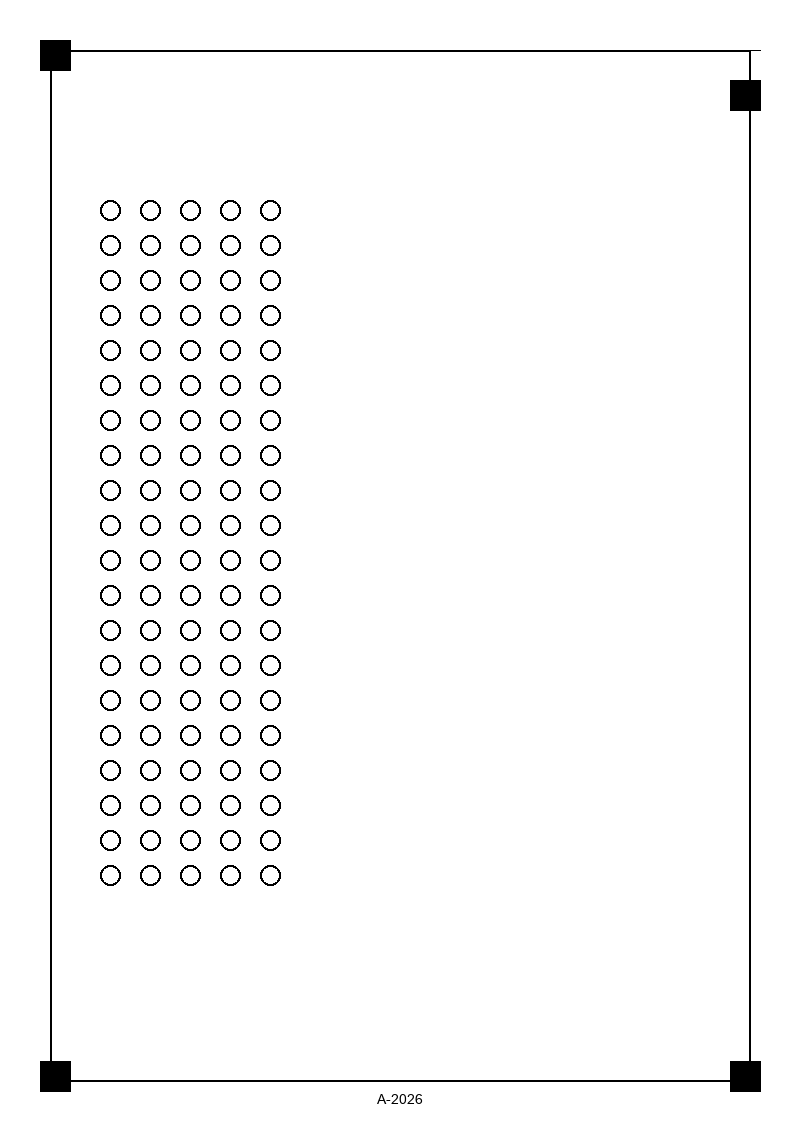
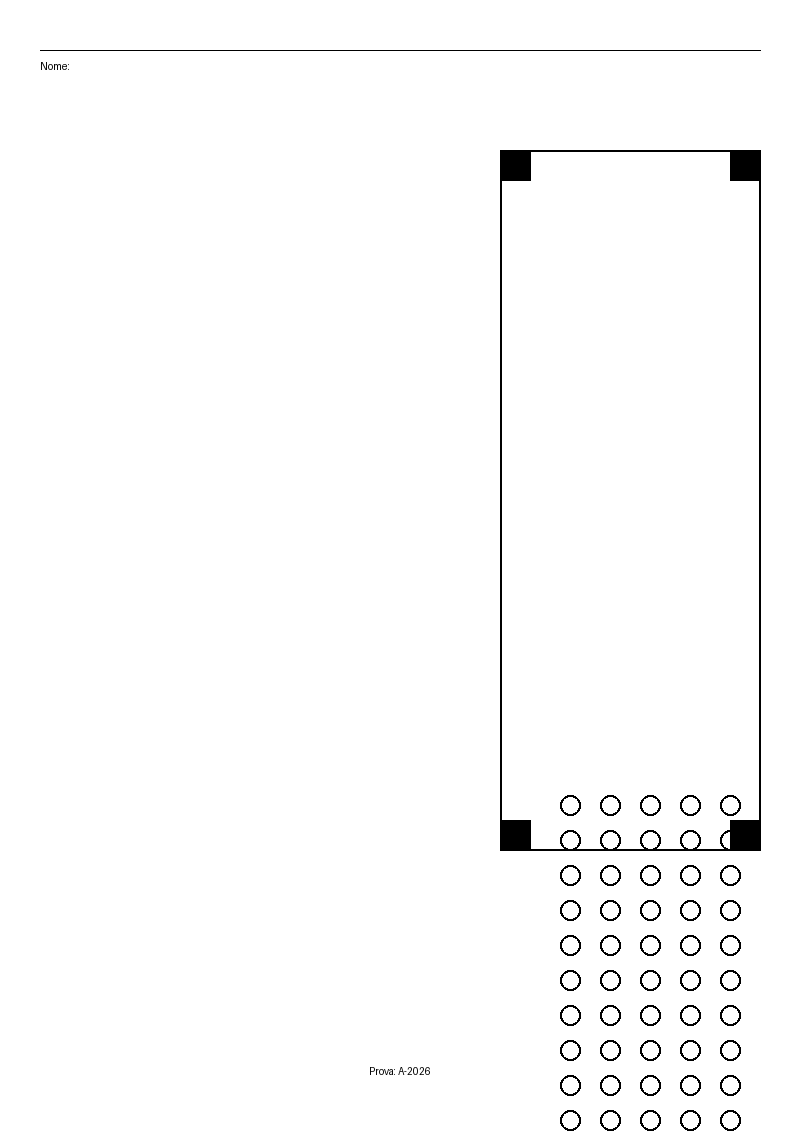
refactor(generation): Reconstrução do logica de desenho

diff --git a/app/services/generator.py b/app/services/generator.py
@@ -1,86 +1,67 @@
 import os
-from PIL import Image, ImageDraw, ImageFont
+from PIL import Image, ImageDraw
 
 ##Altura e largura
 width, height = 800, 1131
+margin = 40
+
+##Calculo da altura entre as caixas
+def CalculateBox(totalQuestions, altsPerQuestion):
+    spaceYPerQuestion = 35
+    spaceXPerQuestion = 40
+    spaceTextLeft = 60
+
+    x1 = width - margin
+    y0 = 150
+
+    boxWidth = spaceTextLeft + (altsPerQuestion * spaceXPerQuestion)
+    boxHeight = totalQuestions * spaceYPerQuestion
+
+    x0 = x1 - boxWidth
+    y1 = y0 + boxHeight
+
+    return x0, x1, y0, y1
 
 
-##Geração da Imagem inicial
-def Img():
-
-    ##Imagem A4 em branco
-    img = Image.new("RGB", (width, height), "white")
-    draw = ImageDraw.Draw(img)
-
-    return draw, img
-
-
-##Calculo da altura entre as caixas, ela sera definida com base no numero de questões
-def BoxHeight(totalQuestions):
-    alternativesSpace = 35 # pixels por linha
-    upperPadding = 150
-
-    boxHeight = upperPadding + (totalQuestions * alternativesSpace)
-
-    return boxHeight
-
-
-##Calculo da largura entre as caixas, ela sera definida com base no numero de alternativas
-def BoxWidth():
-    return
-
-##Desenhar a linha
-def DrawLine():
-    draw, img, _, _  = Img()
-    draw.line([(40, 50), (760, 50)], fill="Black")
-
-    return draw, img
+##Desenho do cabeçalho:
+def DrawHeader(draw):
+    draw.line([(margin, 50), (width - margin, 50)], fill="black")
+    draw.text([margin, 60], "Nome:", fill="black")
 
 
 ##Desenhar a caixa delimitadora:
-def DrawBox():
-    draw, img = DrawLine()
+def DrawBox(draw, x0, x1, y0, y1):
 
-    ##Essas coords serão substituidas por variaveis igual à função abaixo, para poder ajudar na responsividade
-    draw.rectangle([(50, 50), (750, 1081)], outline="black", width=2)
+    draw.rectangle([(x0, y0), (x1, y1)], outline="black", width=2)
 
-    return draw, img
+    return draw
 
 
 ##Desenhar as ancoras
-def DrawAnchor():
+def DrawAnchor(draw, x0, x1, y0, y1):
 
     ##Variaveis para o desenho (q era pra faciliar)
-    draw, img = DrawBox()
-    _, _, width, height = Img() 
-    padding = 40
     size = 30
 
     ##Desenha a caixa para a facilitação do reconhecimento
     ##Caixa superior esquerda
-    draw.rectangle([(padding), (padding), (padding + size), (padding + size)], fill="black")
+    draw.rectangle([(x0, y0), (x0 + size, y0 + size)], fill="black")
 
     ##Caixa superior direita, será fixa
-    draw.rectangle([730, 80, 760, 110], fill="black")
+    draw.rectangle([(x1 - size, y0), (x1, y0 + size)], fill="black")
 
     ##Caixa inferior esquerda
-    draw.rectangle([(padding), (height - padding - size), (padding + size), (height - padding)], fill="black")
+    draw.rectangle([(x0, y1 - size), (x0 + size, y1)], fill="black")
 
     ##Caixa inferior direita
-    draw.rectangle([(width - padding - size), height - (padding + size), (width - padding), (height - padding)], fill="black")
-
-    
-    ##Exportar a img
-    return draw, img
+    draw.rectangle([(x1 - size, y1 - size), (x1, y1)], fill="black")
 
 
 ##Desenha as bolhas das alternativas
-def DrawAlternatives(totalQuestions, altsPerQuestion):
-    draw, img = DrawAnchor()
-
-    startX, startY = 100, 200
+def DrawAlternatives(draw, x0, y0, totalQuestions, altsPerQuestion):
+    startX, startY = x0 + 60, y0 + 35 
     spacingX, spacingY = 40, 35
-    bubbleSize = 20
+    bubbleSize = 20  
 
     for q in range(totalQuestions):
         for a in range(altsPerQuestion):
@@ -88,43 +69,37 @@ def DrawAlternatives(totalQuestions, altsPerQuestion):
             y = startY + q * spacingY
             draw.ellipse([(x, y), (x + bubbleSize, y + bubbleSize)],outline="black", width=2)
 
-    return draw, img
 
-
-
-def WriteId(testId, altsPerQuestion, totalQuestions):
-    draw, img = DrawAlternatives(totalQuestions, altsPerQuestion)
-    
-    font = ImageFont.truetype("arial.ttf", 14)
-    bbox = draw.textbbox([0, 0], testId, font=font)
-    txtWidth = bbox[2] - bbox[0]
-
-    cordX = (800 - txtWidth) / 2
-    cordY = (1131 - 40)
-
-
-    draw.text([cordX, cordY], testId, font=font, fill="black",)
-
-    return img
+def WriteId(draw, testId):
+    startY = height - 60
+    draw.text([width / 2, startY], f"Prova: {testId}", fill="black", anchor="mm")
 
 
 ##Salvar a imagem
-def SaveImg(testID, totalQuestions, altsPerQuestion):
-
-    ##Importar Imagem
-    finalImg = WriteId(testID, altsPerQuestion, totalQuestions)
-    path = f"../examples/{testID}.png"
-    os.makedirs(os.path.dirname(path), exist_ok=True)
-    
-    finalImg.show()
-    
-    finalImg.save(path, format="PNG")
-    print(f"Gabarito salvo em: {path}")
-    return path
 
 
 ##Gerar a imagem final
 def SheetGeneration(testID, totalQuestions, altsPerQuestion):
-    path = SaveImg(testID, totalQuestions, altsPerQuestion)
+    img = Image.new("RGB", (width, height), "white")
+    draw = ImageDraw.Draw(img)
 
+    # 2. Desenha o cabeçalho
+    DrawHeader(draw)
+
+    # 3. Calcula a matemática da caixa (A mágica da responsividade)
+    x0, y0, x1, y1 = CalculateBox(totalQuestions, altsPerQuestion)
+
+    # 4. Manda os operários desenharem passando as coordenadas
+    DrawBox(draw, x0, y0, x1, y1)
+    DrawAnchor(draw, x0, y0, x1, y1)
+    DrawAlternatives(draw, x0, y0, totalQuestions, altsPerQuestion)
+    WriteId(draw, testID)
+
+    # 5. Salva a imagem
+    path = f"../examples/{testID}.png"
+    os.makedirs(os.path.dirname(path), exist_ok=True)
+    img.save(path, format="PNG")
+    print(f"Gabarito salvo em: {path}")
+    
+    img.show()
     return path
